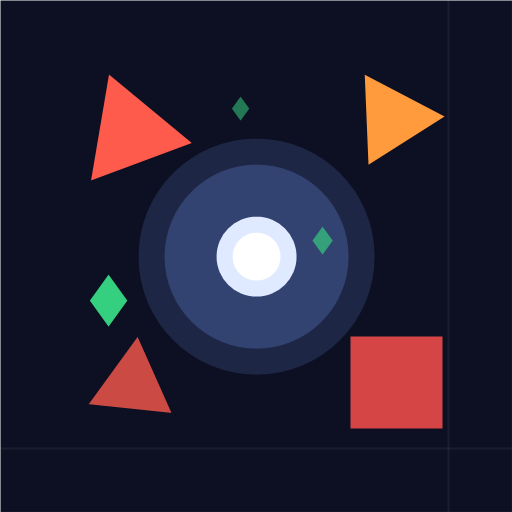
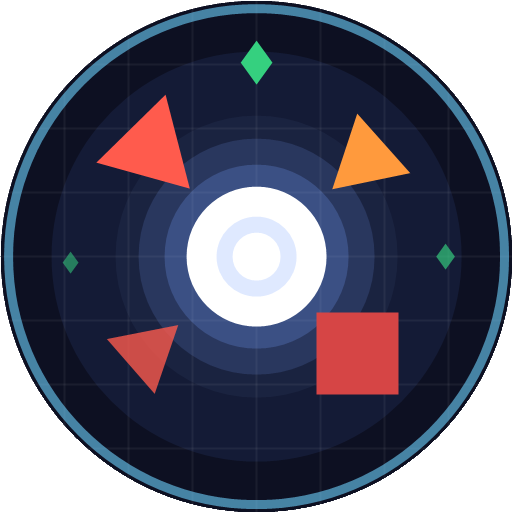
图标改为圆形：圆外透明+青色发光描边+敌人环绕指向圆心；修复ps1中文注释导致的GBK解析错乱问题（脚本改纯ASCII注释）

diff --git a/docs/README.md b/docs/README.md
@@ -38,6 +38,7 @@
 | 2026-09-03 | 音量仍偏小 + 首页也想调音量 | 只提默认值 / 默认值+全局增益双提 | **默认 0.7→0.85 且全局合成增益 ×1.4（整体约 +70%）；首页开始按钮下方加音量滑条，与暂停菜单滑条双向联动** |
 | 2026-09-03 | 游戏正式名称 | 几何幸存者 / 几何求生 / 用户自拟 | **《几何幸存者》（Geometry Survivor）定稿** |
 | 2026-09-03 | 图标设计方案 | 战斗场景 / 纯玩家圆 / 六边形徽章 | **战斗场景：深蓝网格背景 + 发光白圆玩家 + 红/橙三角敌人 + 红方块坦克 + 绿宝石（PowerShell 代码绘制 icon.png）** |
+| 2026-09-03 | 图标形状（用户反馈方改圆） | 方形 / 圆形 | **圆形：内容裁剪进圆内、圆外透明，加青色发光描边，元素改为环绕排布指向圆心** |
 
 ## 协作规则（摘要）
 用户是零基础小白：**所有关键决策必须由 ZCode 列出候选方案 + 优劣势解释，最终由用户选择**；纯技术实现细节可由 ZCode 自行决定。完整规则见 [AGENTS.md](../AGENTS.md)。
@@ -58,6 +59,7 @@
   - [x] 正式名称定稿：《几何幸存者》（2026-09-03）
   - [x] 图标生成（2026-09-03）：icon.png 战斗场景（tools/make-icon.ps1 代码绘制，可重新生成）
   - [x] 网页接入（2026-09-03）：favicon、theme-color、og/twitter 分享卡片 meta
+  - [x] 图标改圆形（2026-09-03）：圆外透明 + 青色发光描边
   - [ ] 用户多设备终验（清单见下）
 - [ ] M3 完成后：项目正式发布 🎉
 

diff --git a/docs/02-技术方案.md b/docs/02-技术方案.md
@@ -120,3 +120,4 @@ js/
 | 2026-09-03 | v2.7 | 试玩反馈第四轮：音量系统（默认音量 0.5→0.7，暂停菜单内音量滑条 0~100，拖动即实时生效并本地保存，静音键保留）；新增暂停菜单（HUD 右上暂停按钮 → 菜单含继续游戏/回到大厅/音量滑条/当前已选武器等级与被动层数一览；独立 userPaused 标志与横屏自动暂停互不干扰） |
 | 2026-09-03 | v2.8 | 试玩反馈第五轮：音量再提升（默认 0.7→0.85 + 全局合成增益 ×1.4，整体响度约 +70%）；首页新增音量滑条（开始按钮下方，与暂停菜单滑条双向联动同步） |
 | 2026-09-03 | v2.9 | M3 发布收尾：正式名称定稿《几何幸存者》；新增 icon.png（512×512，PowerShell System.Drawing 代码绘制，源脚本 tools/make-icon.ps1）；网页接入 favicon/apple-touch-icon/theme-color/og+twitter 分享卡片 meta（og:image 用绝对 URL） |
+| 2026-09-03 | v3.0 | 图标改圆形（用户反馈）：SetClip 圆形裁剪、圆外透明、青色发光描边、敌人环绕指向圆心；**教训：.ps1 脚本含中文注释时 PowerShell 5.1 按 GBK 解析 BOM-less UTF-8 会错乱（部分绘图行被吞、不报错），图标脚本已改为纯 ASCII 注释** |
